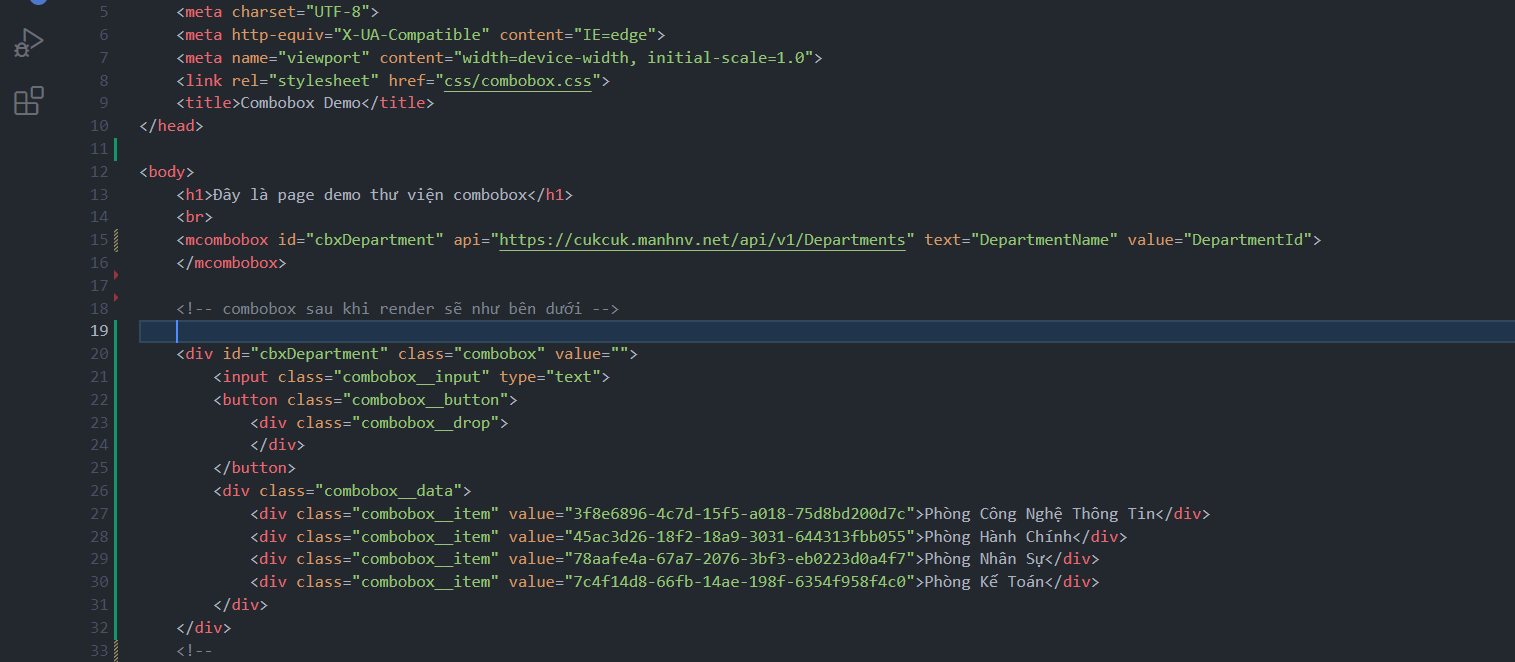
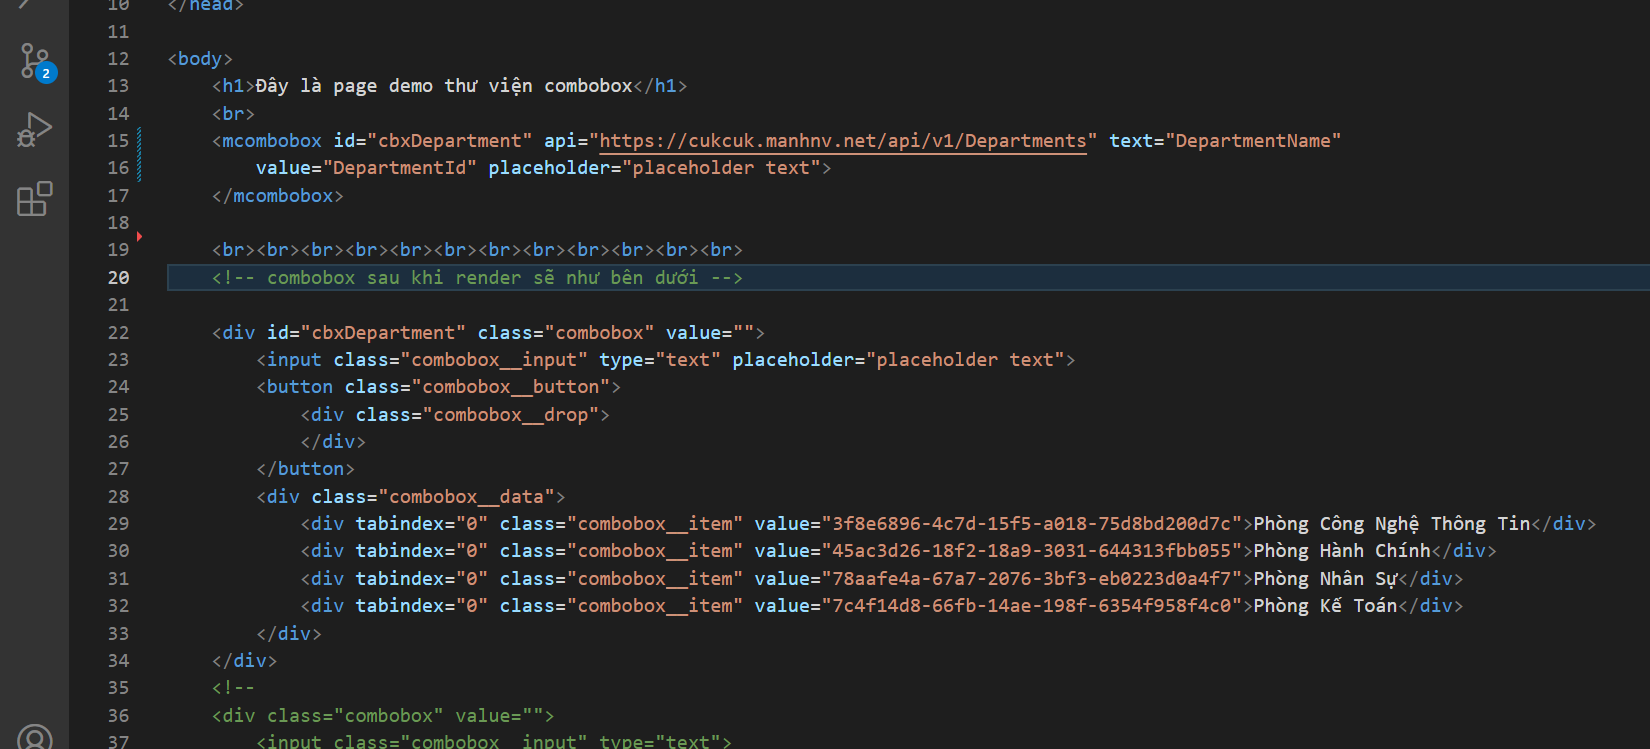
feat: Thêm tính năng render placeholder trong input

diff --git a/js/combobox.js b/js/combobox.js
@@ -156,6 +156,8 @@ function createCombobox() {
             const propText = $(combobox).attr("text")
             // lấy ra prop value
             const propValue = $(combobox).attr("value")
+            // lấy ra placeholder
+            const placeholder = $(combobox).attr("placeholder")
 
             // lấy dữ liệu từ api
             $.ajax({
@@ -165,7 +167,7 @@ function createCombobox() {
                 success: function (response) {
                     let comboboxHTML = $(`
                     <div id=${id} class="combobox" value="">
-                        <input class="combobox__input" type="text">
+                        <input class="combobox__input" type="text" placeholder="${placeholder}">
                         <button class="combobox__button">
                             <div class="combobox__drop">
                             </div>

diff --git a/combobox.html b/combobox.html
@@ -12,16 +12,15 @@
 <body>
     <h1>Đây là page demo thư viện combobox</h1>
     <br>
-    <mcombobox id="cbxDepartment" api="https://cukcuk.manhnv.net/api/v1/Departments" text="DepartmentName" value="DepartmentId">
+    <mcombobox id="cbxDepartment" api="https://cukcuk.manhnv.net/api/v1/Departments" text="DepartmentName"
+        value="DepartmentId" placeholder="placeholder text">
     </mcombobox>
-
-
 
     <br><br><br><br><br><br><br><br><br><br><br><br>
     <!-- combobox sau khi render sẽ như bên dưới -->
     
     <div id="cbxDepartment" class="combobox" value="">
-        <input class="combobox__input" type="text">
+        <input class="combobox__input" type="text" placeholder="placeholder text">
         <button class="combobox__button">
             <div class="combobox__drop">
             </div>

diff --git a/css/combobox.css b/css/combobox.css
@@ -1,5 +1,5 @@
 .combobox{
-    height: 40px;
+    height: 36px;
     width: 100%;
     box-sizing: border-box;
     display: flex;
@@ -34,7 +34,7 @@
     position: absolute;
     right: 1px;
     top: 1px;
-    height: 38px;
+    height: 34px;
     width: 39px;
     border: none;
     border-top-right-radius: 4px;

diff --git a/README.md b/README.md
@@ -2,7 +2,8 @@
 ## Thư viện tạo combobox từ component đơn giản
 Code sẽ được viết trong cặp thẻ mcombobox có dạng như sau
 ```html
-<mcombobox id="idName" api="https://something." text="content" value="content2">
+<mcombobox id="idName" api="https://something." text="content" value="content2"
+placeholder="placeholder text">
 </mcombobox>
 ```
 Trong đó :
@@ -10,6 +11,7 @@ Trong đó :
 - api: địa chỉ api của trang web fetch data về
 - text : giá trị của trường muốn lấy trong json trả về để gán vào textContent item
 - value: giá trị của trường muốn lấy để gán vào value của item
+- placeholder: giá trị gợi ý khi chưa nhập vào input
 
 ````html
 Thêm cặp thẻ sau vào đầu trang html để hiện được css mặc định của combobox
